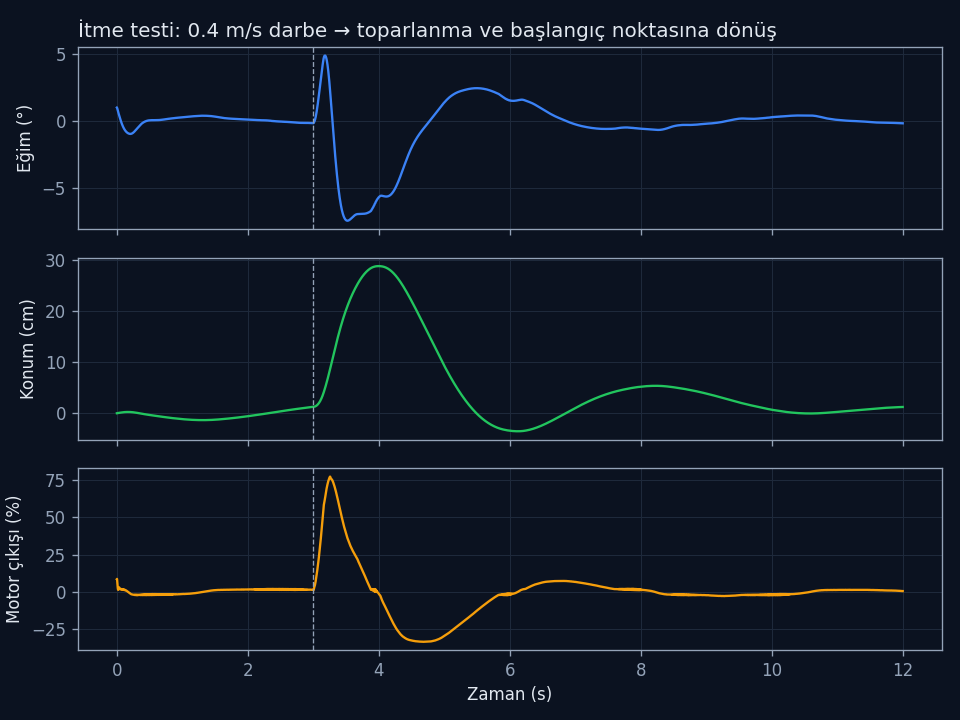
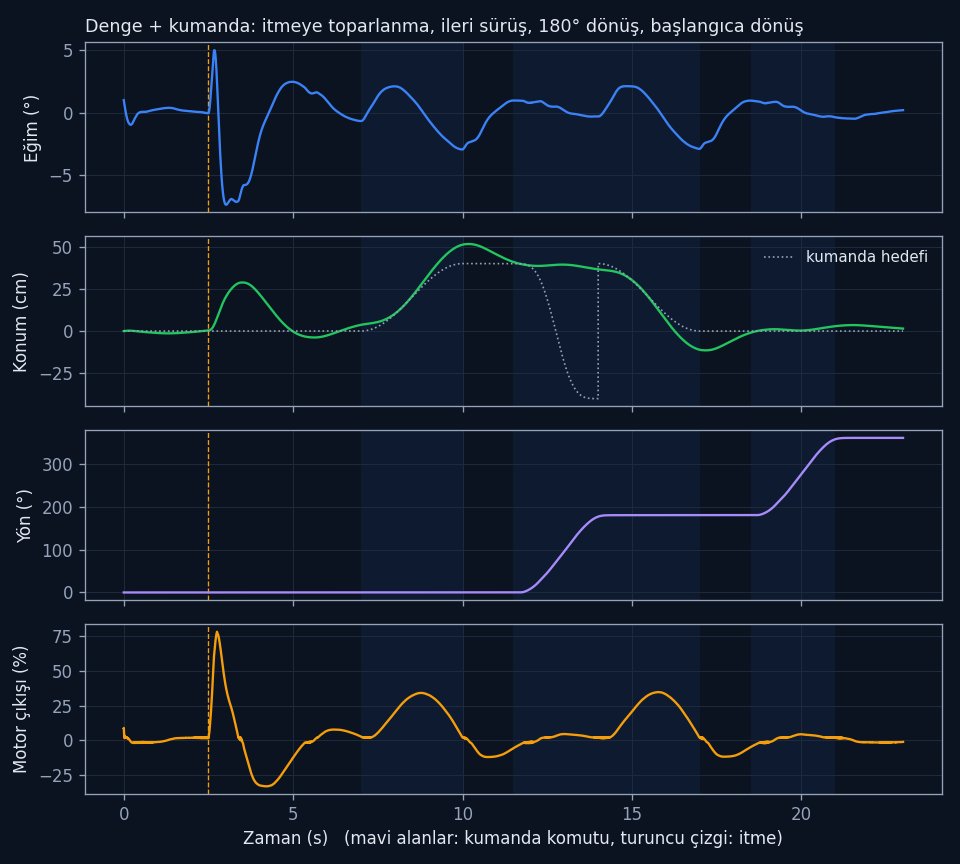
Update project showcase

diff --git a/simulation/animate.py b/simulation/animate.py
@@ -1,7 +1,10 @@
-"""Render the balance controller's push-recovery as a GIF and a time plot.
+"""Render the balance + drive demo as a GIF and a time plot.
 
-Runs the physics model in sim_balance.py (same control law as the firmware), shoves the
-robot and draws what happens.
+Runs the physics model in sim_balance.py (same control law as the firmware) through one
+scenario: hold the start point, recover from a shove, drive to a target with the remote
+control, turn 180 degrees on the spot, drive back and stop where it started.
+Driving moves the outer loop's position/speed setpoint; turning moves the heading-hold
+target. The heading plant is a first-order wheel-speed model (the pitch model is planar).
     python animate.py            # writes push_recovery.gif and push_recovery.png
 """
 from __future__ import annotations
@@ -10,73 +13,272 @@ import math
 
 import matplotlib.pyplot as plt
 from matplotlib.animation import FuncAnimation, PillowWriter
+from matplotlib.patches import Circle, Ellipse, FancyBboxPatch, Polygon, Rectangle
+from matplotlib.transforms import Affine2D
 
-from sim_balance import DEFAULTS, ROBOTS, simulate
+from sim_balance import DEFAULTS, ROBOTS, drive_fraction, simulate
 
 robot = ROBOTS[0]
 params = dict(DEFAULTS, trim=robot.cog_offset_deg)
-push_at, dv = 3.0, 0.4
-log, fell = simulate(robot, params, seconds=12.0, push_at=push_at,
-                     push_N=dv * robot.M / 0.15, push_s=0.15)
+TRACK = 0.15                      # wheel spacing [m]
+PUSH_AT, PUSH_DV = 2.5, 0.4
+DRIVE_M = 0.40                    # remote drive distance [m]
+SECONDS = 23.0
+
+# (start, end, kind, label) — kinds: hold / drive / turn
+PHASES = [
+    (0.0, 2.5, "hold", "Konum tutma"),
+    (2.5, 7.0, "push", "İtme → toparlanma, yerine dönüş"),
+    (7.0, 10.0, "drive", "Kumanda: ileri"),
+    (10.0, 11.5, "hold", "Hedefte bekleme"),
+    (11.5, 14.0, "turn", "Kumanda: yerinde 180° dönüş"),
+    (14.0, 17.0, "drive", "Kumanda: başlangıca dönüş"),
+    (17.0, 18.5, "hold", "Konum tutma"),
+    (18.5, 21.0, "turn", "Kumanda: 180° dönüş"),
+    (21.0, SECONDS, "hold", "Başladığı yerde, aynı yönde"),
+]
+
+
+def smooth(a: float) -> float:
+    a = min(max(a, 0.0), 1.0)
+    return 0.5 - 0.5 * math.cos(math.pi * a)
+
+
+def smooth_rate(a: float, length: float) -> float:
+    return 0.5 * math.pi * math.sin(math.pi * a) / length if 0 < a < 1 else 0.0
+
+
+def body_path(t: float) -> tuple[float, float]:
+    """Distance along the heading [m] and its rate: two forward legs of DRIVE_M."""
+    s = v = 0.0
+    for start, end in [(7.0, 10.0), (14.0, 17.0)]:
+        a = (t - start) / (end - start)
+        s += DRIVE_M * smooth(a)
+        v += DRIVE_M * smooth_rate(a, end - start)
+    return s, v
+
+
+def heading_target(t: float) -> float:
+    return sum(180.0 * smooth((t - a) / (b - a)) for a, b in [(11.5, 14.0), (18.5, 21.0)])
+
+
+# The controller estimates speed from the motor command (%), not in metres: calibrate the
+# scale once with a slow constant-speed run so the setpoint lands where we want.
+def calibrate() -> float:
+    pct = 20.0
+    log, _ = simulate(robot, dict(params), seconds=8.0, push_at=99, push_N=0,
+                      ref=lambda t: (pct * max(t - 2, 0), pct if t > 2 else 0.0))
+    return (log[-1][2] - log[int(len(log) * 0.5)][2]) / (pct * (log[-1][0] - log[int(len(log) * 0.5)][0]))
+
+
+M_PER_UNIT = calibrate()
+log, fell = simulate(robot, params, seconds=SECONDS, push_at=PUSH_AT,
+                     push_N=PUSH_DV * robot.M / 0.15, push_s=0.15,
+                     ref=lambda t: tuple(q / M_PER_UNIT for q in body_path(t)))
 assert fell is None, "robot fell in simulation"
 
 t = [r[0] for r in log]
+dt = t[1] - t[0]
 tilt = [r[1] for r in log]
-x_cm = [r[2] * 100 for r in log]
+s_body = [r[2] for r in log]
 u = [r[4] for r in log]
 
-BG, FG, MUTED, ACCENT, WARN = "#0b1220", "#e2e8f0", "#94a3b8", "#3b82f6", "#f59e0b"
+# Heading: firmware heading-hold law driving a first-order differential wheel-speed model.
+yaw, yaw_rate = [0.0], 0.0
+for i in range(1, len(t)):
+    err = heading_target(t[i]) - yaw[-1]
+    cmd = params.get("kyaw", 0.4) * err - params.get("kyaw_d", 0.03) * yaw_rate
+    cmd = max(-30.0, min(30.0, cmd))
+    duty = lambda c: math.copysign(drive_fraction(abs(c), params["deadband"]), c)
+    wheel_diff = (duty(u[i] + cmd) - duty(u[i] - cmd)) * robot.w_max * robot.r
+    yaw_rate += (math.degrees(wheel_diff / TRACK) - yaw_rate) * dt / 0.08
+    yaw.append(yaw[-1] + yaw_rate * dt)
+
+# World position from distance along the heading.
+wx, wy = [0.0], [0.0]
+for i in range(1, len(t)):
+    ds = s_body[i] - s_body[i - 1]
+    wx.append(wx[-1] + ds * math.cos(math.radians(yaw[i])))
+    wy.append(wy[-1] + ds * math.sin(math.radians(yaw[i])))
+
+BG, PANEL, FG, MUTED, GRID = "#0b1220", "#111a2e", "#e2e8f0", "#94a3b8", "#1e293b"
+ACCENT, GREEN, WARN, RED = "#3b82f6", "#22c55e", "#f59e0b", "#ef4444"
 plt.rcParams.update({"figure.facecolor": BG, "axes.facecolor": BG, "axes.edgecolor": MUTED,
                      "axes.labelcolor": FG, "xtick.color": MUTED, "ytick.color": MUTED,
                      "text.color": FG, "font.size": 10})
 
-fig, axes = plt.subplots(3, 1, figsize=(8, 6), sharex=True)
-for ax, data, label, color in [(axes[0], tilt, "Eğim (°)", ACCENT),
-                               (axes[1], x_cm, "Konum (cm)", "#22c55e"),
-                               (axes[2], u, "Motor çıkışı (%)", WARN)]:
+
+def shade_phases(ax):
+    for start, end, kind, _ in PHASES:
+        if kind in ("drive", "turn"):
+            ax.axvspan(start, end, color=ACCENT, alpha=0.08, lw=0)
+    ax.axvline(PUSH_AT, color=WARN, ls="--", lw=0.8)
+
+
+# --- time plot ---------------------------------------------------------------------------
+fig, axes = plt.subplots(4, 1, figsize=(8, 7.2), sharex=True)
+rows = [(tilt, "Eğim (°)", ACCENT), ([x * 100 for x in wx], "Konum (cm)", GREEN),
+        (yaw, "Yön (°)", "#a78bfa"), (u, "Motor çıkışı (%)", WARN)]
+for ax, (data, label, color) in zip(axes, rows):
+    shade_phases(ax)
     ax.plot(t, data, color=color, lw=1.4)
-    ax.axvline(push_at, color=MUTED, ls="--", lw=0.8)
     ax.set_ylabel(label)
-    ax.grid(color="#1e293b", lw=0.6)
-axes[0].set_title(f"İtme testi: {dv} m/s darbe → toparlanma ve başlangıç noktasına dönüş", loc="left")
-axes[-1].set_xlabel("Zaman (s)")
+    ax.grid(color=GRID, lw=0.6)
+axes[1].plot(t, [body_path(tt)[0] * 100 * math.cos(math.radians(heading_target(tt)))
+                 if tt < 14 else (2 * DRIVE_M - body_path(tt)[0]) * 100 for tt in t],
+             color=MUTED, lw=1, ls=":", label="kumanda hedefi")
+axes[1].legend(loc="upper right", frameon=False, fontsize=9)
+axes[0].set_title("Denge + kumanda: itmeye toparlanma, ileri sürüş, 180° dönüş, başlangıca dönüş",
+                  loc="left", fontsize=10.5)
+axes[-1].set_xlabel("Zaman (s)   (mavi alanlar: kumanda komutu, turuncu çizgi: itme)")
 fig.tight_layout()
 fig.savefig("push_recovery.png", dpi=120)
 
-# Side-view animation: wheel + body, decimated to ~25 fps.
-step = max(1, int(0.04 / (t[1] - t[0])))
-frames = range(0, len(log), step)
-fig2, ax2 = plt.subplots(figsize=(6.4, 3.6))
-ax2.set_xlim(-30, 30)
-ax2.set_ylim(-2, 22)
-ax2.set_aspect("equal")
-ax2.axis("off")
-ax2.axhline(0, color=MUTED, lw=1)
-scale = 100  # metres -> cm
-wheel_r = robot.r * scale
-body_len = robot.L * 2 * scale
-wheel = plt.Circle((0, wheel_r), wheel_r, color=MUTED, fill=False, lw=2)
-ax2.add_patch(wheel)
-(body,) = ax2.plot([], [], color=ACCENT, lw=8, solid_capstyle="round")
-(home,) = ax2.plot([0, 0], [-1.5, 0], color="#22c55e", lw=2)
-label = ax2.text(-29, 20, "", fontsize=10, va="top")
-arrow = ax2.annotate("", xy=(0, 0), xytext=(0, 0))
+# --- animation ---------------------------------------------------------------------------
+CM = 100
+R = robot.r * CM                        # wheel radius
+H, W, D = 17.0, 5.0, 11.0               # body height, length (side), depth (across) [cm]
+HALF_TRACK = TRACK * CM / 2
+
+fig2 = plt.figure(figsize=(9.6, 5.0), dpi=80)
+side = fig2.add_axes([0.01, 0.06, 0.66, 0.78])
+top = fig2.add_axes([0.70, 0.36, 0.28, 0.48])
+pad = fig2.add_axes([0.765, 0.04, 0.15, 0.27])
+
+side.set_xlim(-24, 66)
+side.set_ylim(-6, 30)
+side.set_aspect("equal")
+side.axis("off")
+side.add_patch(Rectangle((-30, -8), 110, 8, color=PANEL, zorder=0))
+side.plot([-30, 80], [0, 0], color=MUTED, lw=1.2, zorder=1)
+for xc in range(-20, 70, 10):
+    side.plot([xc, xc], [0, -1.2], color=MUTED, lw=0.8)
+    side.text(xc, -3.4, f"{xc}", ha="center", fontsize=7, color=MUTED)
+side.text(66, -3.4, "cm", ha="right", fontsize=7, color=MUTED)
+side.add_patch(Polygon([[0, 0], [0, 7], [3.2, 6], [0, 5]], closed=True, color=GREEN, zorder=1))
+side.text(-1, 3.5, "başlangıç", ha="right", fontsize=8, color=GREEN)
+goal_flag = side.add_patch(Polygon([[40, 0], [40, 7], [43.2, 6], [40, 5]], closed=True,
+                                   color=ACCENT, zorder=1, alpha=0))
+goal_txt = side.text(44, 3.5, "hedef", ha="left", fontsize=8, color=ACCENT, alpha=0)
+
+far_wheel = Ellipse((0, R), 2 * R, 2 * R, color="#334155", zorder=2)
+body = FancyBboxPatch((-W / 2, 0), W, H, boxstyle="round,pad=0,rounding_size=1.2",
+                      fc="#1e3a5f", ec="#60a5fa", lw=1.5, zorder=3)
+battery = Rectangle((-W / 2 + 0.6, 1.5), W - 1.2, 4.2, fc="#334155", ec="#64748b", lw=1, zorder=4)
+board = Rectangle((-W / 2 + 0.6, 7.2), W - 1.2, 5.0, fc="#14532d", ec="#22c55e", lw=1, zorder=4)
+chip = Rectangle((-0.9, 8.6), 1.8, 1.8, fc="#0f172a", zorder=5)
+imu = Rectangle((-0.6, 13.3), 1.2, 1.0, fc="#a78bfa", zorder=5)
+led = Circle((W / 2, H - 2.0), 0.55, color=RED, zorder=6)
+near_tire = Ellipse((0, R), 2 * R, 2 * R, fc="#0f172a", ec="#cbd5e1", lw=2.2, zorder=7)
+hub = Ellipse((0, R), 0.9 * R, 0.9 * R, fc="#475569", ec="#94a3b8", lw=1, zorder=8)
+for p in (far_wheel, body, battery, board, chip, imu, led, near_tire, hub):
+    side.add_patch(p)
+spokes = [side.plot([], [], color="#cbd5e1", lw=1.4, zorder=9)[0] for _ in range(3)]
+push_arrow = side.annotate("", xy=(0, 0), xytext=(0, 0))
+
+phase_txt = fig2.text(0.015, 0.94, "", fontsize=13, weight="bold", va="center")
+stat_txt = fig2.text(0.015, 0.875, "", fontsize=9.5, color=MUTED, va="center", family="monospace")
+fig2.text(0.70, 0.94, "Üstten görünüş", fontsize=10, color=MUTED, va="center")
+
+top.set_xlim(-14, 54)
+top.set_ylim(-16, 16)
+top.set_aspect("equal")
+top.set_facecolor(PANEL)
+top.set_xticks([])
+top.set_yticks([])
+for sp in top.spines.values():
+    sp.set_color(GRID)
+top.plot(0, 0, "o", color=GREEN, ms=6)
+trail = top.plot([], [], color=ACCENT, lw=1.5, alpha=0.7)[0]
+top_body = Rectangle((-W / 2 - 1, -HALF_TRACK + 1.5), W + 2, 2 * HALF_TRACK - 3,
+                     fc="#1e3a5f", ec="#60a5fa", lw=1.2, zorder=3)
+top_wl = Rectangle((-R, HALF_TRACK - 1.2), 2 * R, 2.4, fc="#0f172a", ec="#cbd5e1", zorder=4)
+top_wr = Rectangle((-R, -HALF_TRACK - 1.2), 2 * R, 2.4, fc="#0f172a", ec="#cbd5e1", zorder=4)
+top_nose = Polygon([[W / 2 + 1, -2.5], [W / 2 + 5, 0], [W / 2 + 1, 2.5]], color=RED, zorder=5)
+for p in (top_body, top_wl, top_wr, top_nose):
+    top.add_patch(p)
+
+pad.set_xlim(-1.3, 1.3)
+pad.set_ylim(-1.3, 1.3)
+pad.set_aspect("equal")
+pad.axis("off")
+pad.add_patch(Circle((0, 0), 1.0, fc=PANEL, ec=MUTED, lw=1))
+pad.plot([-1, 1], [0, 0], color=GRID, lw=0.8)
+pad.plot([0, 0], [-1, 1], color=GRID, lw=0.8)
+knob = Circle((0, 0), 0.28, color=ACCENT, zorder=3)
+pad.add_patch(knob)
+pad.text(0, -1.28, "kumanda", ha="center", va="top", fontsize=8, color=MUTED)
+
+
+def phase_at(tt):
+    return next(p for p in PHASES if p[0] <= tt < p[1] or p is PHASES[-1])
 
 
 def draw(i):
-    global arrow
-    tt, th_deg, x = log[i][0], log[i][1], log[i][2] * scale
-    th = math.radians(th_deg - robot.cog_offset_deg)
-    wheel.center = (x, wheel_r)
-    body.set_data([x, x + body_len * math.sin(th)], [wheel_r, wheel_r + body_len * math.cos(th)])
-    pushing = push_at <= tt < push_at + 0.4
-    arrow.remove()
-    arrow = ax2.annotate("itme", xy=(x - 2, wheel_r + body_len * 0.6), xytext=(x - 14, wheel_r + body_len * 0.6),
-                         color=WARN, arrowprops=dict(arrowstyle="->", color=WARN, lw=2), alpha=1 if pushing else 0)
-    label.set_text(f"t = {tt:4.1f} s   eğim = {th_deg - robot.cog_offset_deg:+5.1f}°   konum = {x:+5.1f} cm")
-    return body, wheel, label
+    global push_arrow
+    tt = t[i]
+    th = math.radians(tilt[i])
+    psi = math.radians(yaw[i])
+    c, sn = math.cos(psi), math.sin(psi)
+    x = wx[i] * CM
+
+    # Side view: the robot is a box on two wheels seen from the side; when it turns, the
+    # wheels separate on screen and the body's side face narrows (simple projection).
+    lean_x = math.sin(th) * c                       # forward lean projected on the screen
+    axle = (x, R)
+    rot = Affine2D().scale(abs(c) * 1.0 + abs(sn) * D / W, 1).rotate(-math.asin(max(-1, min(1, lean_x)))) \
+        .translate(*axle) + side.transData
+    face = 1 if c >= 0 else -1
+    body.set_transform(rot)
+    for p in (battery, board, chip, imu):
+        p.set_transform(rot)
+    led.set_center((face * W / 2 * abs(c), H - 2.0))
+    led.set_transform(Affine2D().rotate(-math.asin(max(-1, min(1, lean_x)))).translate(*axle)
+                      + side.transData)
+    led.set_alpha(max(abs(c), 0.15))
+    near_dx, far_dx = HALF_TRACK * sn, -HALF_TRACK * sn
+    for e, dx in ((far_wheel, far_dx), (near_tire, near_dx), (hub, near_dx)):
+        e.set_center((x + dx, R))
+    near_tire.width = 2 * R * max(abs(c), 0.12)
+    hub.width = 0.9 * R * max(abs(c), 0.12)
+    far_wheel.width = 2 * R * max(abs(c), 0.12)
+    roll = s_body[i] / robot.r
+    for k, sp in enumerate(spokes):
+        a = roll + k * math.pi / 3
+        sp.set_data([x + near_dx - R * 0.9 * math.cos(a) * abs(c), x + near_dx + R * 0.9 * math.cos(a) * abs(c)],
+                    [R - R * 0.9 * math.sin(a), R + R * 0.9 * math.sin(a)])
+
+    kind = phase_at(tt)[2]
+    in_push = PUSH_AT <= tt < PUSH_AT + 0.5
+    push_arrow.remove()
+    push_arrow = side.annotate("itme", xy=(x - 4, R + H * 0.7), xytext=(x - 17, R + H * 0.7),
+                               color=WARN, fontsize=9, va="center",
+                               arrowprops=dict(arrowstyle="-|>", color=WARN, lw=2.2))
+    push_arrow.set_visible(in_push)
+    goal_on = 6.5 <= tt < 14.0
+    goal_flag.set_alpha(1 if goal_on else 0)
+    goal_txt.set_alpha(1 if goal_on else 0)
+
+    # Top view.
+    trail.set_data([v * CM for v in wx[: i + 1 : 5]], [v * CM for v in wy[: i + 1 : 5]])
+    tr = Affine2D().rotate(psi).translate(x, wy[i] * CM) + top.transData
+    for p in (top_body, top_wl, top_wr, top_nose):
+        p.set_transform(tr)
+
+    # Remote: forward stick while driving, sideways while turning.
+    _, v_ref = body_path(tt)
+    yaw_ref_rate = (heading_target(tt + 0.05) - heading_target(tt)) / 0.05
+    knob.set_center((max(-1, min(1, -yaw_ref_rate / 110)) * 0.7, max(-1, min(1, v_ref / 0.25)) * 0.7))
+    knob.set_color(ACCENT if kind in ("drive", "turn") else MUTED)
+
+    color = {"push": WARN, "drive": ACCENT, "turn": "#a78bfa"}.get(kind, GREEN)
+    phase_txt.set_text(phase_at(tt)[3])
+    phase_txt.set_color(color)
+    stat_txt.set_text(f"t={tt:4.1f} s  eğim={tilt[i]:+5.1f}°  konum={x:+5.1f} cm  yön={yaw[i] % 360:5.1f}°")
+    return []
 
 
-anim = FuncAnimation(fig2, draw, frames=frames, blit=False)
-anim.save("push_recovery.gif", writer=PillowWriter(fps=25))
-print("push_recovery.gif / push_recovery.png yazıldı")
+step = max(1, int(round(0.05 / dt)))
+anim = FuncAnimation(fig2, draw, frames=range(0, len(log), step), blit=False)
+anim.save("push_recovery.gif", writer=PillowWriter(fps=20))
+print(f"push_recovery.gif / push_recovery.png yazıldı (son konum {wx[-1] * 100:+.1f} cm, yön {yaw[-1]:.1f}°)")

diff --git a/simulation/sim_balance.py b/simulation/sim_balance.py
@@ -58,6 +58,9 @@ class Controller:
         self.rate_f = 0.0
         self.target = 0.0
         self.i_term = 0.0
+        # Remote drive: the controller tracks a moving position/speed setpoint (same units
+        # as x and v). Both stay 0 when the robot only holds its start point.
+        self.x_ref = self.v_ref = 0.0
 
     def step(self, acc_angle, rate, dt):
         p = self.p
@@ -74,10 +77,11 @@ class Controller:
         self.v += (self.last_u - self.v) * dt / vel_tau
         self.x += self.v * dt
         lean = p["max_lean"]
-        pos = max(-0.7 * lean, min(0.7 * lean, p["kx"] * self.x))
-        target = p["trim"] - pos - p["kv"] * self.v
+        x_err = self.x - self.x_ref
+        pos = max(-0.7 * lean, min(0.7 * lean, p["kx"] * x_err))
+        target = p["trim"] - pos - p["kv"] * (self.v - self.v_ref)
         self.target = max(p["trim"] - lean, min(p["trim"] + lean, target))
-        xl = max(-TRIM_LEARN_X_CLAMP, min(TRIM_LEARN_X_CLAMP, self.x))
+        xl = max(-TRIM_LEARN_X_CLAMP, min(TRIM_LEARN_X_CLAMP, x_err))
         p["trim"] = max(-TRIM_LIMIT, min(TRIM_LIMIT, p["trim"] - p["kxi"] * xl * dt))
         if p["d_lpf"] > 0:
             rc = 1 / (2 * math.pi * p["d_lpf"])
@@ -93,7 +97,8 @@ class Controller:
 
 
 def simulate(robot: Robot, params: dict, seconds=25.0, push_at=8.0, push_N=1.5, push_s=0.15,
-             start_tilt=1.0, seed=1, flip=None):
+             start_tilt=1.0, seed=1, flip=None, ref=None):
+    """ref(t) -> (x_ref, v_ref) moves the setpoint, as a remote drive command does."""
     rnd = random.Random(seed)
     ctrl = Controller(params)
     if flip:
@@ -120,6 +125,8 @@ def simulate(robot: Robot, params: dict, seconds=25.0, push_at=8.0, push_N=1.5, 
             acc_angle = math.degrees(th - math.atan2(a_fwd, G)) + robot.cog_offset_deg + rnd.gauss(0, 0.4)
             delay.append(math.degrees(thd) + rnd.gauss(0, 0.08) + bias)
             rate = delay.pop(0)
+            if ref:
+                ctrl.x_ref, ctrl.v_ref = ref(t)
             out = ctrl.step(acc_angle, rate, dt_ctrl + rnd.uniform(-5e-5, 5e-5))
             if out is None:
                 fell_at = t
